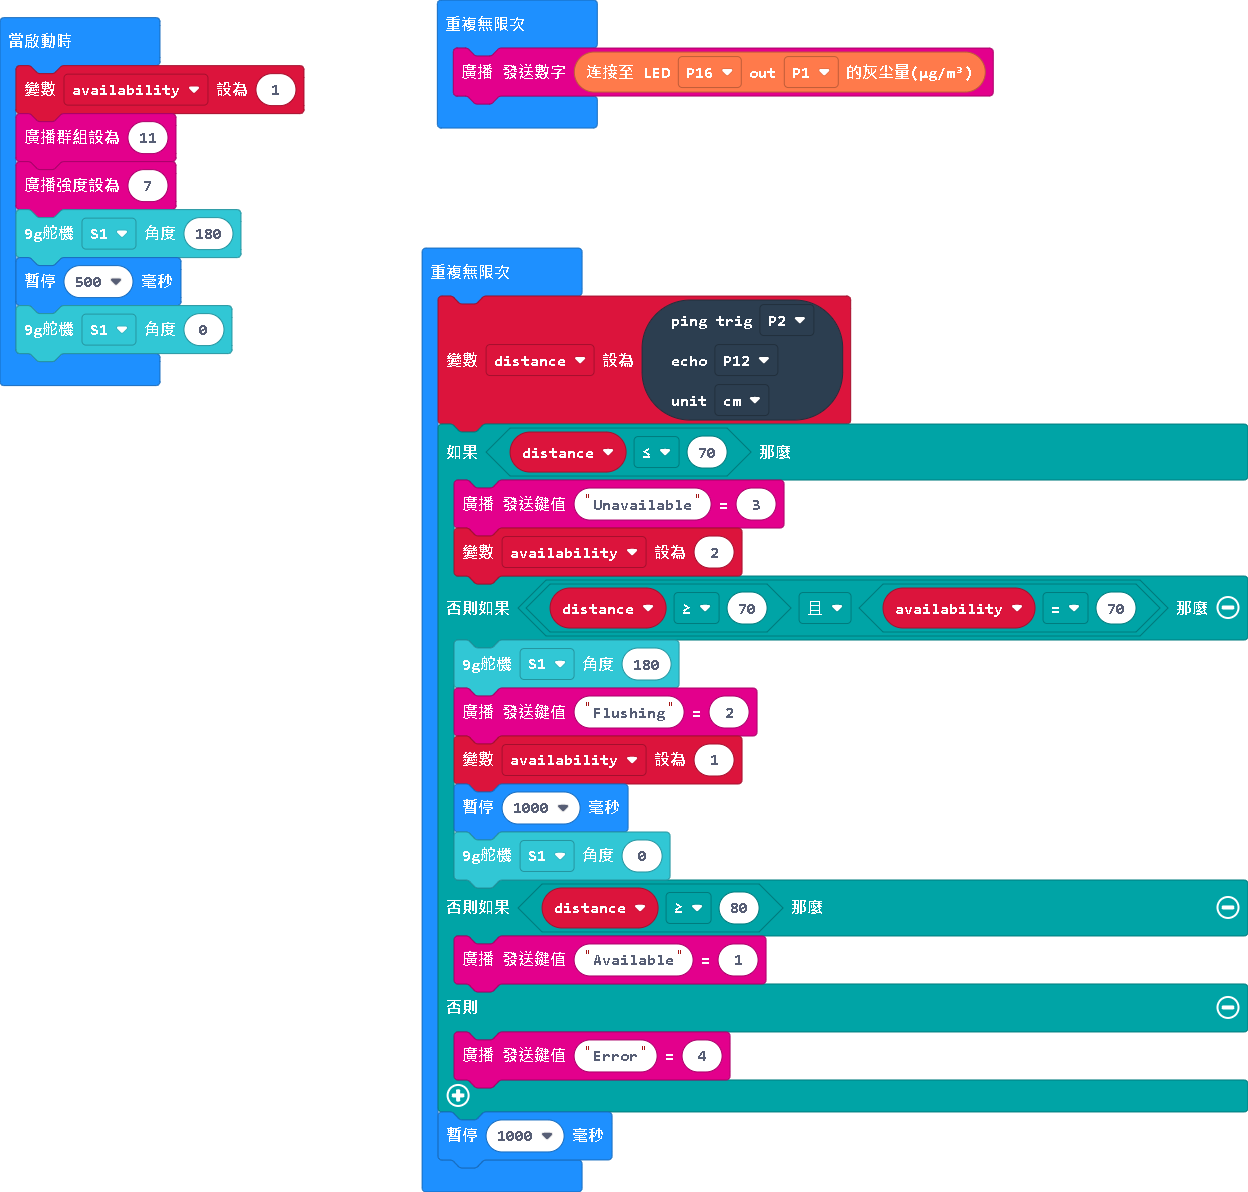
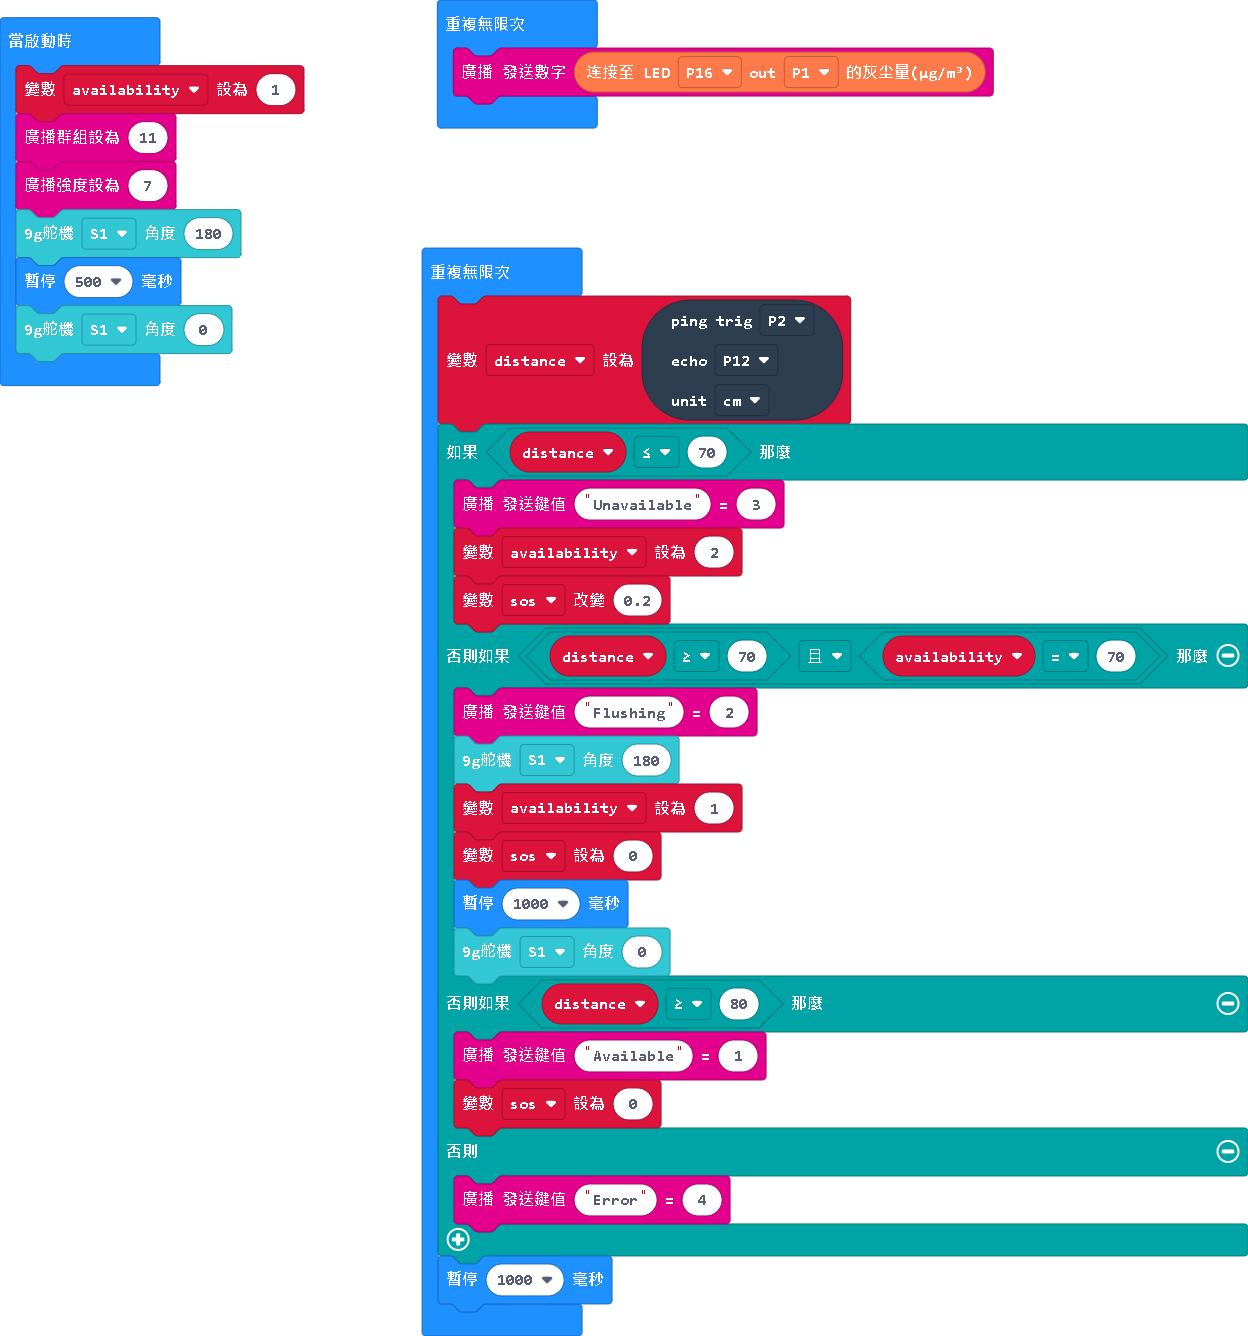
更新 main.blocks, main.ts

Changed region(s): [[0.3125, 0.1862, 1.0, 0.9933], [0.0, 0.0, 0.25, 0.3414], [0.3438, 0.0, 0.8125, 0.1242]]

diff --git a/main.ts b/main.ts
@@ -1,3 +1,4 @@
+let sos = 0
 let distance = 0
 let availability = 1
 radio.setGroup(11)
@@ -17,14 +18,17 @@ basic.forever(function () {
     if (distance <= 70) {
         radio.sendValue("Unavailable", 3)
         availability = 2
+        sos += 0.2
     } else if (distance >= 70 && availability == 70) {
-        robotbit.Servo(robotbit.Servos.S1, 180)
         radio.sendValue("Flushing", 2)
+        robotbit.Servo(robotbit.Servos.S1, 180)
         availability = 1
+        sos = 0
         basic.pause(1000)
         robotbit.Servo(robotbit.Servos.S1, 0)
     } else if (distance >= 80) {
         radio.sendValue("Available", 1)
+        sos = 0
     } else {
         radio.sendValue("Error", 4)
     }
